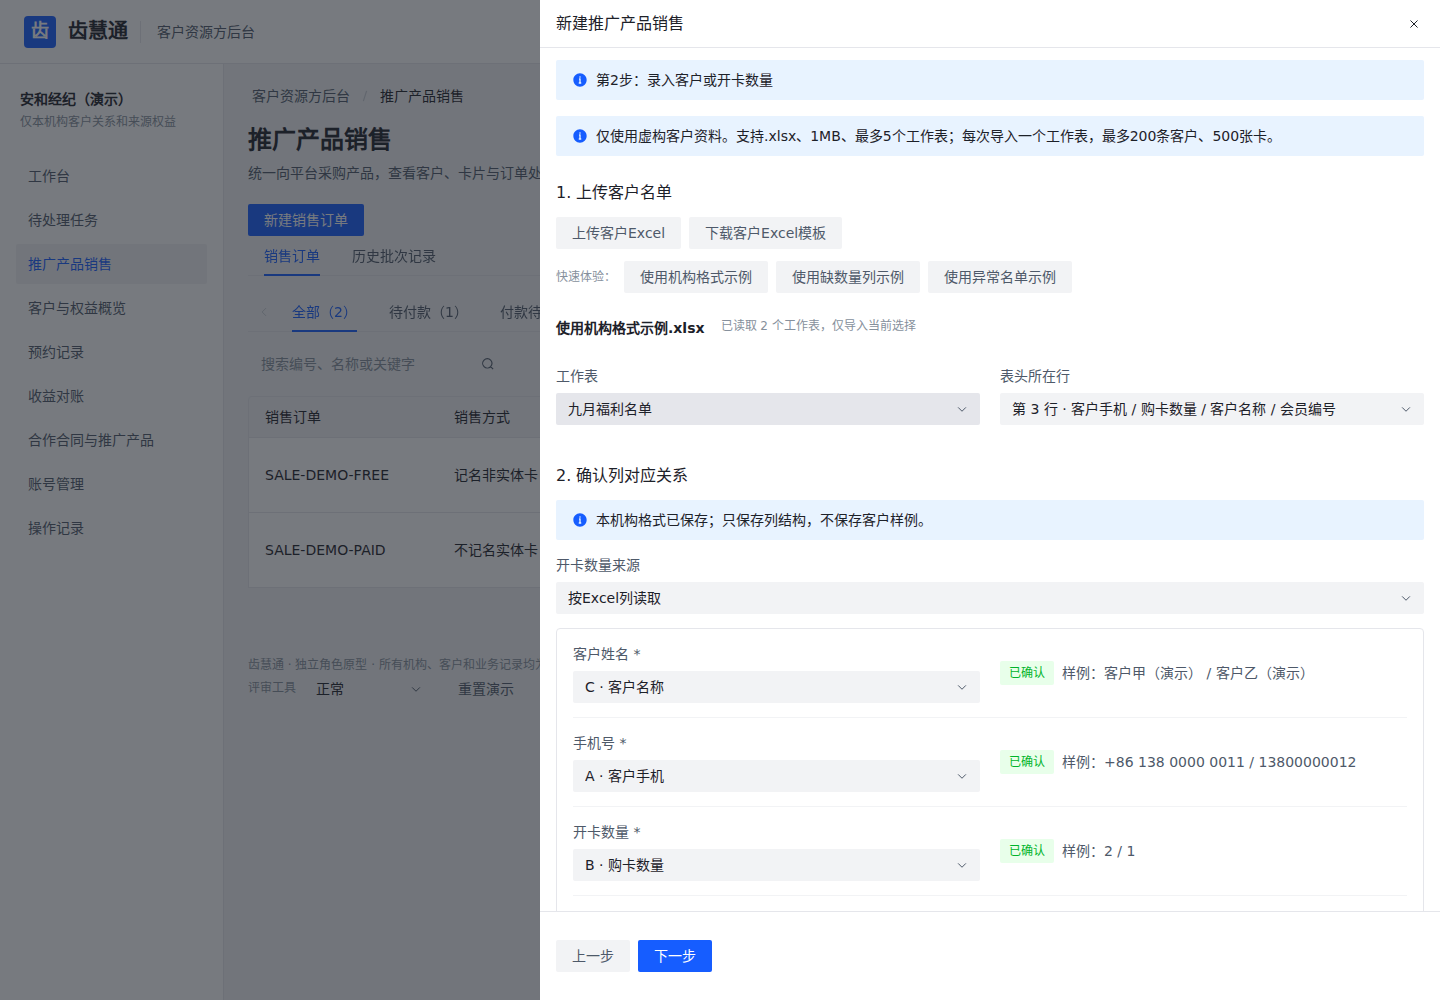
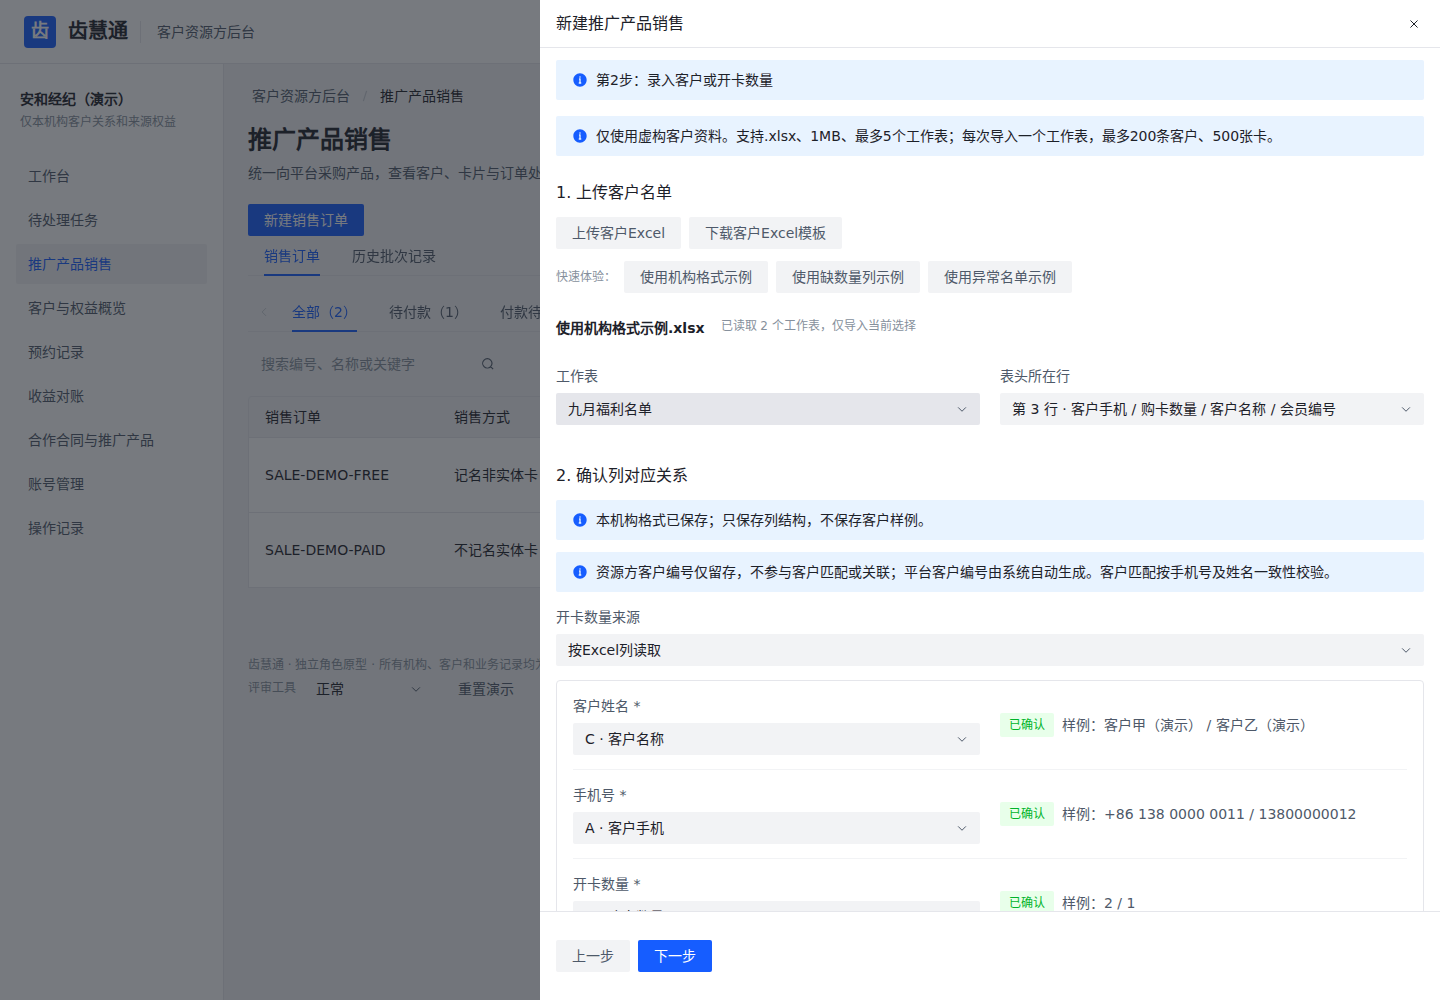
docs: record customer identifier regression and refresh screenshots

diff --git a/docs/tasks.md b/docs/tasks.md
@@ -8,9 +8,13 @@
 
 | 编号 | 任务 | 状态 | 验收范围 |
 | --- | --- | --- | --- |
-| TASK-076 | REQ-004/041编号语义、原型文案及回归 | 进行中 | 平台编号自动生成；资源方编号仅留存；同号不误合并、异号不拆客户、姓名冲突仍阻断；旧表头兼容 |
+| TASK-076 | REQ-004/041编号语义、原型文案及回归 | 完成 | 平台编号自动生成；资源方编号仅留存；同号不误合并、异号不拆客户、姓名冲突仍阻断；旧表头兼容 |
 
 不新增正式客户服务或更换原型数据字段；正式服务端唯一性、事务及跨来源关系待开发。所有运行验证仍仅在指定服务器执行。
+
+2026-09-12：提交`3e20cce4c1c15b8f1843e1cde41b595161b3caa5`在指定服务器执行`--suite import`，Excel专项及销售回归2/2通过，交付文件哈希前后不变。报告：`/home/ubuntu/ChiHuiTong/test-results/20260911T164809Z-3e20cce4c1c1/summary.json`（北京时间00:48:09～00:48:45）。新增验证覆盖旧/新表头文本前导零、单客外部编号留存、异号/空号复用已有客户、相同外部编号及碰撞已有系统编号不合并新客户、自动生成ID和卡片关联、同手机号异姓名阻断。现有四个共享服务均active；未在本地运行测试，未执行全量19入口或正式后端验证。
+
+同步五张服务器导入截图，目视检查桌面映射、窄屏及平台只读依据；原始订单映射快照不重写。后续提交仅补充文档及截图，执行代码保持上述已测提交一致。保留旧版本快照可回退，无数据库迁移或真实客户处理。
 
 ## 当前任务：0.31 Excel列适配
 

diff --git a/docs/prototype-review.md b/docs/prototype-review.md
@@ -4,6 +4,8 @@
 
 资源方批量导入的列映射、标准模板及单客录入统一标注“资源方客户编号（选填）”（模板列名不含选填后缀），说明其只留存、不参与匹配或关联。旧“客户编号/会员编号”表头仍兼容；平台客户编号由系统创建，不能通过Excel指定。按手机号及姓名复用客户的流程不变，历史订单快照不重写。验证及最新截图见TASK-076。
 
+2026-09-12服务器专项2/2通过，五张导入截图已更新；[查看最新列映射](../prototypes/resource/excel-mapping.png)。本次仅澄清编号文案并强化回归，不宣称真实客户关系服务已实现。
+
 ## 0.31记名Excel列适配评审
 
 入口：资源方后台 → 推广产品销售 → 新建销售订单 → 记名非实体卡 → 批量客户 → 下一步。第二步现在提供上传、工作表/表头、列对应关系与校验预览；不用新建额外一级菜单，单客和实体卡路径不变。

diff --git a/docs/design-requirements.md b/docs/design-requirements.md
@@ -1,7 +1,7 @@
 # 齿慧通前端设计要求：Arco Design
 
 - 状态：项目强制设计基线，原型和正式 Web 开发共同遵循
-- 版本：1.18，2026-09-09
+- 版本：1.18.1，2026-09-12（编号业务文案补充，Arco基线未变）
 - 关联：REQ-019、TASK-019、TASK-020、ADR-0001
 - 适用：平台、客户资源方、门诊渠道公司、口腔门诊四组 Web 后台；小程序遵循[移动设计适配要求](mini-program-design.md)，不直接套用桌面组件尺寸。
 
